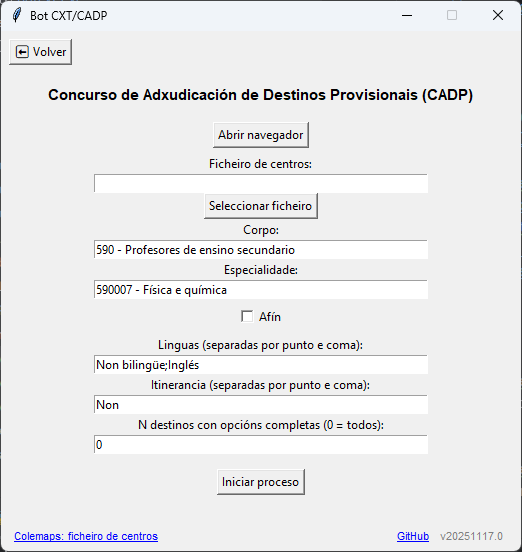
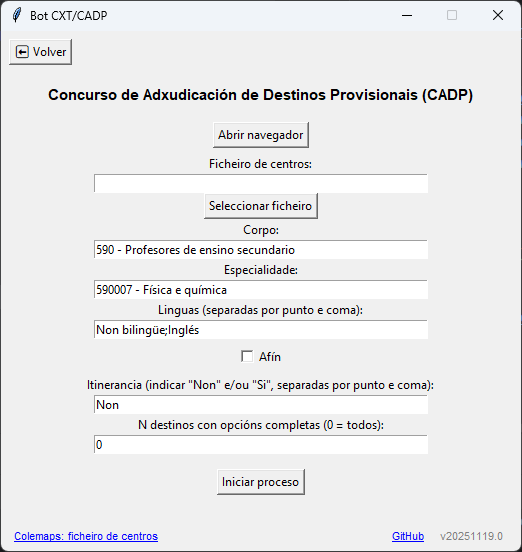
Actualización versión 20251119.0

Changed region(s): [[0.1533, 0.5543, 0.8276, 0.7083], [0.7356, 0.9547, 0.8276, 0.9855], [0.9195, 0.9547, 0.9502, 0.9855]]

diff --git a/src/models/logger.py b/src/models/logger.py
@@ -1,0 +1,53 @@
+from src.config.version import VERSION
+import threading
+import psycopg2
+from dotenv import load_dotenv
+import os
+
+load_dotenv()
+
+USER = os.getenv("DB_USER")
+PASSWORD = os.getenv("DB_PASSWORD")
+HOST = os.getenv("DB_HOST")
+PORT = os.getenv("DB_PORT")
+DBNAME = os.getenv("DB_NAME")
+
+
+class Logger:
+    @staticmethod
+    def inserir_log(tramite, centros, especialidade, linguas, itinerancias, status, duracion):
+        try:
+            connection = psycopg2.connect(
+                user=USER,
+                password=PASSWORD,
+                host=HOST,
+                port=PORT,
+                dbname=DBNAME
+            )
+            cursor = connection.cursor()
+
+            cursor.execute("""
+                INSERT INTO public.botcxtlogs
+                (created_at, version, tramite, centros, especialidade, linguas, itinerancias, status, duracion)
+                VALUES (NOW(), %s, %s, %s, %s, %s, %s, %s, %s);
+            """, (VERSION, tramite, centros, especialidade, linguas, itinerancias, status, duracion))
+
+            connection.commit()
+            print("Log da execución gardado")
+        except Exception as e:
+            print(f"[Erro DB] Non se puido inserir o log: {e}")
+        finally:
+            try:
+                cursor.close()
+                connection.close()
+            except:
+                pass
+
+    @staticmethod
+    def inserir_log_async(tramite, centros, especialidade, linguas, itinerancias, status, duracion):
+        thread = threading.Thread(
+            target=Logger.inserir_log,
+            args=(tramite, centros, especialidade, linguas, itinerancias, status, duracion),
+            daemon=True
+        )
+        thread.start()

diff --git a/src/controllers/cadp_controller.py b/src/controllers/cadp_controller.py
@@ -1,7 +1,9 @@
 import tkinter as tk
+from tkinter import messagebox
+import time
 from src.controllers.base_controller import BaseController
 from src.models.scraper import lanzar_cadp
-from tkinter import messagebox
+from src.models.logger import Logger
 
 
 class CADPController(BaseController):
@@ -14,7 +16,10 @@ class CADPController(BaseController):
         self.entry_itinerancia = tk.StringVar(value="Non")
 
     def executar(self):
+        start_time = time.time()
         driver = self.get_driver()
+        centros = []
+        status = ""
         try:
             centros = open(self.txt_archivo.get()).read().split()
             lanzar_cadp(
@@ -27,6 +32,20 @@ class CADPController(BaseController):
                 itinerancias=[i.strip() for i in self.entry_itinerancia.get().split(";")],
                 limite=int(self.entry_limite.get())
             )
-            messagebox.showinfo("Proceso finalizado", "Completado con éxito")
+            status = "Exitoso"
         except Exception as e:
-            messagebox.showerror("❌ Erro", f"Houbo un erro no proceso: \n{e}")
+            status = f"Erro: {e}"
+        finally:
+            Logger.inserir_log_async(
+                tramite="CADP",
+                centros=len(centros),
+                especialidade=self.combo_espec.get(),
+                linguas=self.entry_linguas.get(),
+                itinerancias=self.entry_itinerancia.get(),
+                status=status,
+                duracion=round(time.time() - start_time, 2)
+            )
+            if status == "Exitoso":
+                messagebox.showinfo("Proceso finalizado", "Completado con éxito")
+            else:
+                messagebox.showerror("❌ Erro", f"{status}")

diff --git a/src/controllers/cxt_controller.py b/src/controllers/cxt_controller.py
@@ -1,7 +1,9 @@
 import tkinter as tk
+from tkinter import messagebox
+import time
 from src.controllers.base_controller import BaseController
 from src.models.scraper import lanzar_cxt
-from tkinter import messagebox
+from src.models.logger import Logger
 
 
 class CXTController(BaseController):
@@ -14,7 +16,10 @@ class CXTController(BaseController):
         self.entry_itinerancia = tk.StringVar(value="0-Non")
 
     def executar(self):
+        start_time = time.time()
         driver = self.get_driver()
+        centros = []
+        status = ""
         try:
             centros = open(self.txt_archivo.get()).read().split()
             lanzar_cxt(
@@ -27,6 +32,20 @@ class CXTController(BaseController):
                 itinerancias=[i.strip() for i in self.entry_itinerancia.get().split(";")],
                 limite=int(self.entry_limite.get())
             )
-            messagebox.showinfo("Proceso finalizado", "Completado con éxito")
+            status = "Exitoso"
         except Exception as e:
-            messagebox.showerror("❌ Erro", f"Houbo un erro no proceso: \n{e}")
+            status = f"Erro: {e}"
+        finally:
+            Logger.inserir_log_async(
+                tramite="CXT",
+                centros=len(centros),
+                especialidade=self.combo_espec.get(),
+                linguas=self.entry_linguas.get(),
+                itinerancias=self.entry_itinerancia.get(),
+                status=status,
+                duracion=round(time.time() - start_time, 2)
+            )
+            if status == "Exitoso":
+                messagebox.showinfo("Proceso finalizado", "Completado con éxito")
+            else:
+                messagebox.showerror("❌ Erro", f"{status}")

diff --git a/src/botcxt.py b/src/botcxt.py
@@ -1,11 +1,12 @@
 import tkinter as tk
 import webbrowser
 from src.controllers.navigation import Navigation
-from views.pantalla_seleccion import PantallaSeleccion
-from views.form_cxt import FormularioCXT
-from views.form_cadp import FormularioCADP
+from src.views.pantalla_seleccion import PantallaSeleccion
+from src.views.form_cxt import FormularioCXT
+from src.views.form_cadp import FormularioCADP
+from src.config.version import VERSION
 
-VERSION = "20251118.0"
+
 root = tk.Tk()
 root.title("Bot CXT/CADP")
 root.geometry("520x520")
@@ -23,7 +24,6 @@ p_cadp = FormularioCADP(container)
 nav.rexistrar("seleccion", p_sel)
 nav.rexistrar("cxt", p_cxt)
 nav.rexistrar("cadp", p_cadp)
-print(Navigation.pantallas)
 nav.mostrar("seleccion")
 
 # FOOTER

diff --git a/src/config/version.py b/src/config/version.py
@@ -1,0 +1,1 @@
+VERSION = "20251119.0"

diff --git a/README.md b/README.md
@@ -1,24 +1,29 @@
 # BotCXT/CADP
 Bot desenvolvido en Python para automatizar o envío de solicitudes na páxina da Xunta de Galicia do Concurso Xeral de Traslados (CXT) e no Concurso de Adxudicación de Destinos Provisionais (CADP) utilizando Selenium e unha interface gráfica baseada en Tkinter.
 
-Pódese ver un titorial de uso da primeira versión do bot no enlace https://youtu.be/pKWsqMe5GYo
+Pódese ver un titorial de uso da primeira versión do bot (así como a explicación de por que se difunde esta ferramenta) no enlace: https://youtu.be/pKWsqMe5GYo
 
-Pódese ver un titorial de uso para o CXT 2025 de Pablo Rodríguez Vila no enlace https://www.youtube.com/watch?v=_to3aAMq-8M
-
+Pódese ver un titorial de uso para o CXT 2025 de Pablo Rodríguez Vila no enlace: https://youtu.be/_to3aAMq-8M
 
 
 Máis información en https://profesoradogalicia.com/botcxt/
+
+
+## ☕ Apoia o proxecto
+Se queres agradecer o traballo, podes convidarme a un café:
+
+<a href="https://www.buymeacoffee.com/manuelduro" target="_blank"><img src="https://cdn.buymeacoffee.com/buttons/v2/default-yellow.png" alt="Buy Me A Coffee" style="height: 60px !important;width: 217px !important;" ></a>
+
+https://buymeacoffee.com/manuelduro
+
+
+## GUI
 
 ![Ventana inicial](ventana_inicial.png)
 ![Ventana CXT](ventana_cxt.png)
 ![Ventana CADP](ventana_cadp.png)
 
 ---
-
-## ☕ Apoia o proxecto
-Se queres agradecer o traballo, podes convidarme a un café:
-
-https://buymeacoffee.com/manuelduro
 
 
 ## Contidos
@@ -28,9 +33,8 @@ https://buymeacoffee.com/manuelduro
 3. [Uso](#uso)
 4. [Límite de destinos](#límite-de-destinos) 
 5. [Estrutura do proxecto](#estrutura-do-proxecto) 
-6. [Funcionamento](#funcionamento)  
-7. [Creación do executable](#creación-do-executable)  
-8. [Notas e boas prácticas](#notas-e-boas-prácticas)  
+6. [Compilación do executable](#compilación-do-executable)  
+7. [Notas e boas prácticas](#notas-e-boas-prácticas)  
 
 ---
 
@@ -50,25 +54,25 @@ Instalar o navegador Mozilla Firefox https://www.mozilla.org/es-ES/firefox/new/
 
 Clonar o repositorio ou descargalo nun zip.
 
-Para usar o executable sen instalar nada adicional, executar dist/botcxt.exe (con doble click é suficiente). Se salta un aviso de Windows ou do antivirus (esto é debido a que non o recoñece como un programa habitual xa que non é dunha grande corporación ou organización), pódese ignorar e proceder coa execución.
+### Instalación simple
 
-Para executar o código fonte, instalar as dependencias:
+Para usar o executable sen instalar nada adicional, executar dist/botcxt.exe (con doble click é suficiente).
+
+Se salta un aviso de Windows ou do antivirus pódese ignorar e proceder coa execución (esto é debido a que non o recoñece como un programa habitual xa que non é dunha grande corporación ou organización).
+
+### Instalación avanzada
+
+Para executar o código fonte directamente, instalar as dependencias:
   ```bash
   pip install -r requirements.txt
   ```
-
-Ou manualmente:
-  ```bash
-  selenium==4.22.0
-  pyinstaller==6.16.0
-  webdriver-manager==4.0.1
-  ```
-
-## Uso
-1. Executar o ficheiro dist/botcxt.exe (doble click nel) ou executar directamente o código con:
+E despois executar:
   ```bash
   python src/botcxt.py
   ```
+
+## Uso
+1. Executar o ficheiro dist/botcxt.exe (doble click nel) ou executar directamente o código.
 2. Na interface gráfica:
 - Ao abrir o programa, seleccionar o trámite: CXT ou CADP.
 - Cada formulario dispón dun botón ⬅ Volver para regresar á pantalla de selección.
@@ -86,13 +90,13 @@ Ou manualmente:
 O programa mostrará unha mensaxe cando o proceso remate ou se produza un erro.
 
 ## Límite de destinos
-O formulario da Xunta só admite 400 peticións (polo menos para especialidades de secundaria en Galicia). Se se empregan varias linguas ou itinerancias, o número de combinacións por centro pode duplicarse ou triplicarse, superando con creces este límite.
+O formulario da Xunta só admite 400 peticións no CXT e 1000 no CADP (polo menos para especialidades de secundaria en Galicia). Se se empregan varias linguas ou itinerancias, o número de combinacións por centro pode duplicarse ou triplicarse, podendo superar este límite.
 
 Para evitar superar o límite, engadiuse o campo:
 ```bash
 N destinos con opcións completas
 ```
-Funcionamento:
+### Funcionamento
 
 Os N primeiros centros do ficheiro faranse con todas as linguas e itinerancias indicadas.
 
@@ -100,45 +104,63 @@ O resto dos centros non se duplicarán: faranse só coa primeira lingua e itiner
 
 Se non se vai facer uso do parámetro, pode deixarse o valor 0.
 
+### Exemplo práctico
+Ao exportar os códigos ordenados en Colemaps, veremos o número total de centros:
+
+![exemplo_n.png](exemplo_n.png)
+
+Neste exemplo, son 346. Dependendo do trámite teremos un límite de 400 (no CXT) ou de 1000 (no CADP). Para explicalo usaremos o CXT.
+
+Supoñamos que quero poder optar a plazas bilingües en inglés. Teño que facer as peticións por duplicado (unha sen bilingüismo e outra en inglés). Como teño 346 centros, se poño un 0 no parámetro N o bot tratará de poñer 692 peticións, polo que superaremos o límite e a web da Xunta queixarase.
+
+Por tanto, para tratar de maximizar as opcións, nas primeiras peticións faremos que vaian por duplicado (non bilingüe e inglés) co parámetro N. Pódese plantexar así:
+
+(límite - centros) / (repeticións - 1) = N
+
+Que neste caso sería:
+```bash
+(400 - 346) / (2 - 1) = 54
+```
+É dicir, que podería duplicar (opción non bilingüe e opción bilingüe) nos 54 primeiros centros. Por tanto, no parámetro N indicaría un 54.
+
+Se se quere facer o mesmo tendo en conta máis linguas ou incluindo tamén a itinerancia, hai que ter en conta a explosión combinatoria.
+
+Se seleccionáramos non bilingüe, inglés, non itinerante e itinerante, por cada centro teremos 4 peticións e, por tanto:
+```bash
+(400 - 346) / (4 - 1) = 18
+```
+
+Neste caso, teriamos que poñer o valor 18 no parámetro N para que os 18 primeiros centros vaian por cuadriplicado e o resto centros ata a petición número 400 vaian coa primeira opción escollida de idioma e itinerancia. 
+
 ## Estrutura do proxecto
 ```bash
-BotCXT/
+BotCXT-CADP
 │
+├─ botcxt.py                       # Punto de entrada da aplicación, monta a UI principal
 ├─ src/
-│   ├─ botcxt.py             # Control principal da aplicación
-│   ├─ scraper.py            # Funcións de Selenium para CXT e CADP
-│   └─ forms/
-│       ├─ __init__.py
-│       ├─ base.py           # Clase base para formularios
-│       ├─ form_cxt.py       # Formulario CXT
-│       └─ form_cadp.py      # Formulario CADP
-├─ dist/                     # Executable xerado por PyInstaller
-├─ requirements.txt          # Librarías usadas no proxecto 
-└─ README.md                 # Documentación
+│   ├─ controllers/
+│   │   ├─ base_controller.py      # Controlador base con funcionalidades comúns
+│   │   ├─ cxt_controller.py       # Controlador específico de CXT
+│   │   ├─ cadp_controller.py      # Controlador específico de CADP
+│   │   └─ navigation.py           # Controlador principal de navegación entre pantallas
+│   │
+│   ├─ models/
+│   │   ├─ scraper.py              # Funcións de Selenium para automatización web
+│   │   └─ logger.py               # Funcións para rexistrar os logs
+│   │
+│   └─ views/
+│       ├─ pantallas_seleccion.py  # Pantalla inicial
+│       ├─ form_cxt.py             # Vista do formulario CXT
+│       └─ form_cadp.py            # Vista do formulario CADP
+│
+├─ README.md                       # Documentación
+├─ dist/                           # Executable xerado por PyInstaller
+└─ requirements.txt                # Librarías usadas no proxecto
 
 ```
 
-
-## Funcionamento
-botcxt.py
-- Xestiona a interface de usuario con Tkinter.
-- Permite seleccionar ficheiros, cambiar entre CXT e CADP, iniciar o navegador e lanzar o formulario correspondente.
-- Dispón dun botón de Volver para regresar á pantalla de selección de trámite.
-
-forms/
-- Cada formulario é unha clase que herda de FormularioBase.
-- FormularioCXT → campos específicos de CXT.
-- FormularioCADP → campos específicos de CADP.
-- Cada formulario xestiona a súa propia interface e execución.
-
-scraper.py
-- Contén as funcións lanzar_cxt e lanzar_cadp que automatizan a interacción co navegador mediante Selenium.
-
-Selenium + Firefox
-- O bot usa webdriver.Firefox() para abrir e controlar o navegador.
-
-## Creación do executable
-Para crear un executable de Windows cun só ficheiro executar no terminal:
+## Compilación do executable
+Para a compilación dun executable de Windows cun só ficheiro, executar no terminal:
 ```bash
 pyinstaller --noconsole --onefile --paths src src/botcxt.py
 ```
@@ -150,4 +172,5 @@ Neste repositorio facilítase a última versión do executable lista para lanzar
 - Revisar que os nomes nos formularios da web coincidan exactamente (incluindo maiúsculas/minúsculas ou espacios) coas seleccións do código.
 - Para cambiar os valores por defecto no GUI, modificar manualmente os distintos parámetros.
 - O bot foi deseñado para uso persoal e responsable, polo que se insta a non facer spam de solicitudes á páxina da Xunta.
+- O bot recolle de forma automática información mínima de uso, incluíndo a versión do bot, nome do trámite executado (CXT ou CADP), número de centros (non se garda que centros se piden nin a orde), especialidade, linguas, itinerancias e estado final do proceso (exitoso ou erro). Esta información úsase únicamente para control de uso, detección de erros e poder implementar melloras sen recoller ningún dato persoal nin datos sensibles dos usuarios. Pódese consultar o ficheiro src/models/logger.py (así coma os controladores que invocan ás súas funcións) para comprobar de primeira man os datos que se están tratando.
 - O código é aberto e totalmente auditable. Ninguén debe confiar cegamente en executables sen revisalos.
